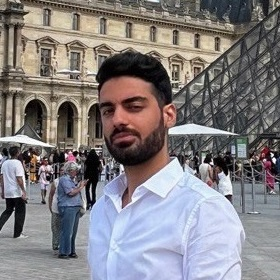
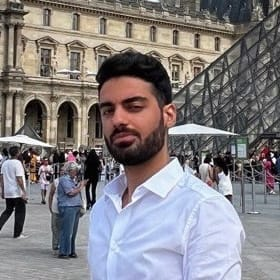
Optimized image and added keean

diff --git a/pages/team.js b/pages/team.js
@@ -56,6 +56,14 @@ export const undergradStudents = [
       "Isaiah is working on his bachelor's degree in Civil Engineering. He is interested in examining the relationships between humans and the built environment, specifically the human experience within built structures. In his research project, Isaiah focuses on how the lighting conditions and viewing experience affect the building occupants.",
     picture: "/team/pileggi-epps.jpg",
   },
+  {
+    name: "Keean Balsiger",
+    email: "balsigke@oregonstate.edu",
+    pronouns: "He/Him",
+    description:
+      "Keean is a bachelors student studying architectural engineering with a focus in lighting design. He is interested in the interface between the built environment and human health. He looks forward to researching the non-visual effects of light and peoples well-being.",
+    picture: "/team/balsiger.jpg",
+  },
 ];
 export const alumni = [
   {
